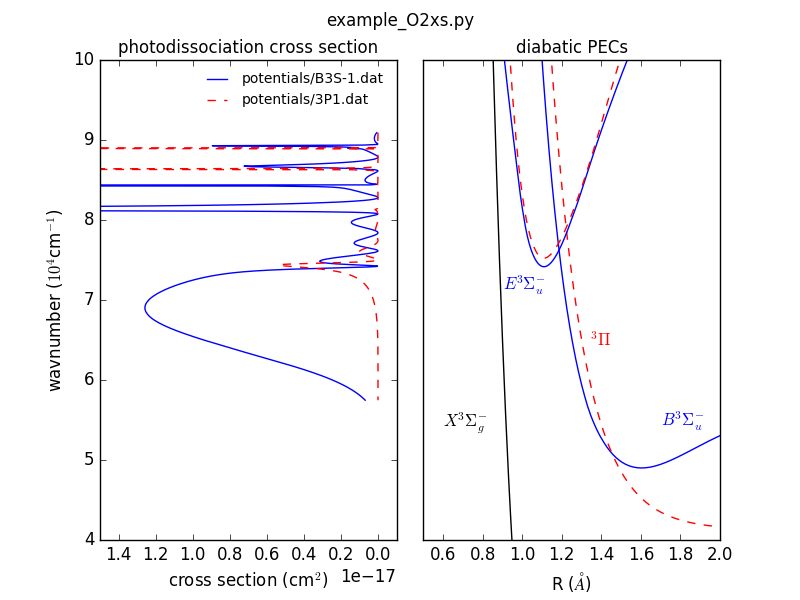
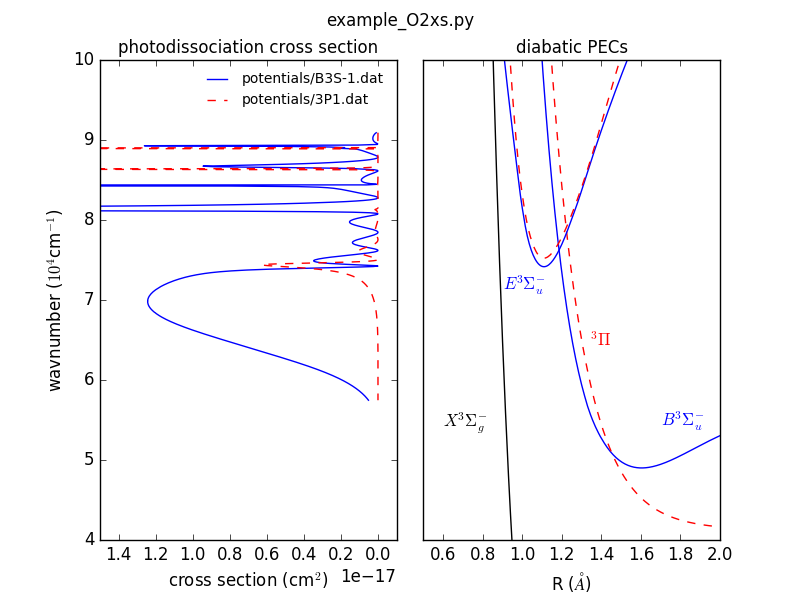
fix dipolemoment read. Now all moments used in the calculation of the photodissociation cross section

diff --git a/cse/cse_setup.py b/cse/cse_setup.py
@@ -145,10 +145,6 @@ def potential_energy_curves(pecfs=None, R=None):
 
     limits = (oo, n, Rm, Rx, Vm, Vx)
   
-    # offset R=0 so 1/R behaves
-    if R[0] < 1.0e-16:
-        R[0] = 1.0e-16   
-
     return R, VT, pecfs, limits
 
 
@@ -196,29 +192,28 @@ def load_dipolemoment(dipolemoment=None, R=None, pec_gs=None, pec_us=None):
 
         return True
 
-    dipole = []
-    if dipolemoment is not None:
-        # number or filename
-        for d in dipolemoment:
-            if is_number(d):
-                dipole.append(np.zeros_like(R)+float(d))
-            else:
-                RD, D = np.loadtxt(d, unpack=True)
-                subr = np.logical_and(RD>=R[0], RD<=R[-1])
-                dipole.append(D[subr])
-   
-    else:
-        # query for dipolemoment filename/values
-        for g in pec_gs:
-            for u in pec_us:
-                fn = input("CSE: dipolemoment filename or value {} <- {} : ".
-                           format(u, g)) 
-                # may be a number
-                if is_number(fn):
-                    dipole.append(np.zeros_like(R)+float(fn))             
-                else:
-                    RD, D = np.loadtxt(fn, unpack=True)
-                    subr = np.logical_and(RD>=R[0], RD<=R[-1])
-                    dipole.append(D[subr])
+    ngs = len(pec_gs)
+    nus = len(pec_us)
+    oo = len(R)
 
-    return np.transpose(np.array(dipole))
+    dipole = np.zeros((nus, ngs, oo))
+    # loop through all possible ground-state -> upper-state transitions
+    for g in np.arange(ngs):
+        for u in np.arange(nus):
+            i = g*nus + u
+            if dipolemoment is not None and len(dipolemoment) > i:
+                fn = dipolemoment[i]
+            else:
+                fn = input("CSE: dipolemoment filename or value {} <- {} : ".
+                           format(pec_us[u], pec_gs[g])) 
+            if is_number(fn):
+                # fn is a number
+                dipole[u][g] = float(fn)             
+            else:
+                # fn a filename
+                RD, D = np.loadtxt(fn, unpack=True)
+                mn = np.abs(RD[0] - R[0]).argmin()
+                mx = np.abs(RD[-1] - R[-1]).argmin() + 1
+                dipole[u][g][mn:mx] = D
+
+    return np.transpose(dipole)

diff --git a/cse/cse.py b/cse/cse.py
@@ -5,7 +5,6 @@ from . import johnson
 from . import expectation
 from . import cse_setup
 
-
 class Cse():
     """ Class to setup and solve the TISE via the Johnson renormalized
         Numerov method i.e. drive johnson.py for a single
@@ -59,6 +58,10 @@ class Cse():
                     cse_setup.potential_energy_curves(VT)
 
         self.set_coupling(coup=coup)
+
+        # fudge to eliminate 1/0 error for 1/R^2
+        if self.R[0] < 1.0e-16:
+            self.R[0] = 1.0e-16
 
         if en > 0:
             self.solve(en, self.rot)

diff --git a/cse/johnson.py b/cse/johnson.py
@@ -188,12 +188,14 @@ def matching_point(en, rot, V, R, mu):
     """
 
     oo, n, m = V.shape
-    if en > V[oo-1][0][0]:
+
+    Vm = min([V[-1][j][j].min() for j in range(n)])  # lowest dissociation energy
+
+    if en > Vm:
         return oo-1
     else:
         Vnn = np.transpose(V)[-1][-1]  # -1 -1 highest PEC?
         mx = np.abs(Vnn - en).argmin()
-        #mx = list(Vnn).index(Vnn[en > Vnn][-1])
 
         WI = WImat(en, rot, V, R, mu)
         Rm = RImat(WI, mx)

diff --git a/cse/expectation.py b/cse/expectation.py
@@ -52,8 +52,8 @@ def cross_section(wavenumber, wfu, wfi, R, dipolemoment):
     ReX = np.zeros((oo, nopen))
     ImX = np.zeros((oo, nopen))
     for i in range(oo):
-        ReX[i] = (dipolemoment[i] @ Re[i])*wfi[i]
-        ImX[i] = (dipolemoment[i] @ Im[i])*wfi[i]
+        ReX[i] = (dipolemoment[i][0] @ Re[i])*wfi[i]
+        ImX[i] = (dipolemoment[i][0] @ Im[i])*wfi[i]
 
     xsp = []
     for j in range(nopen):
